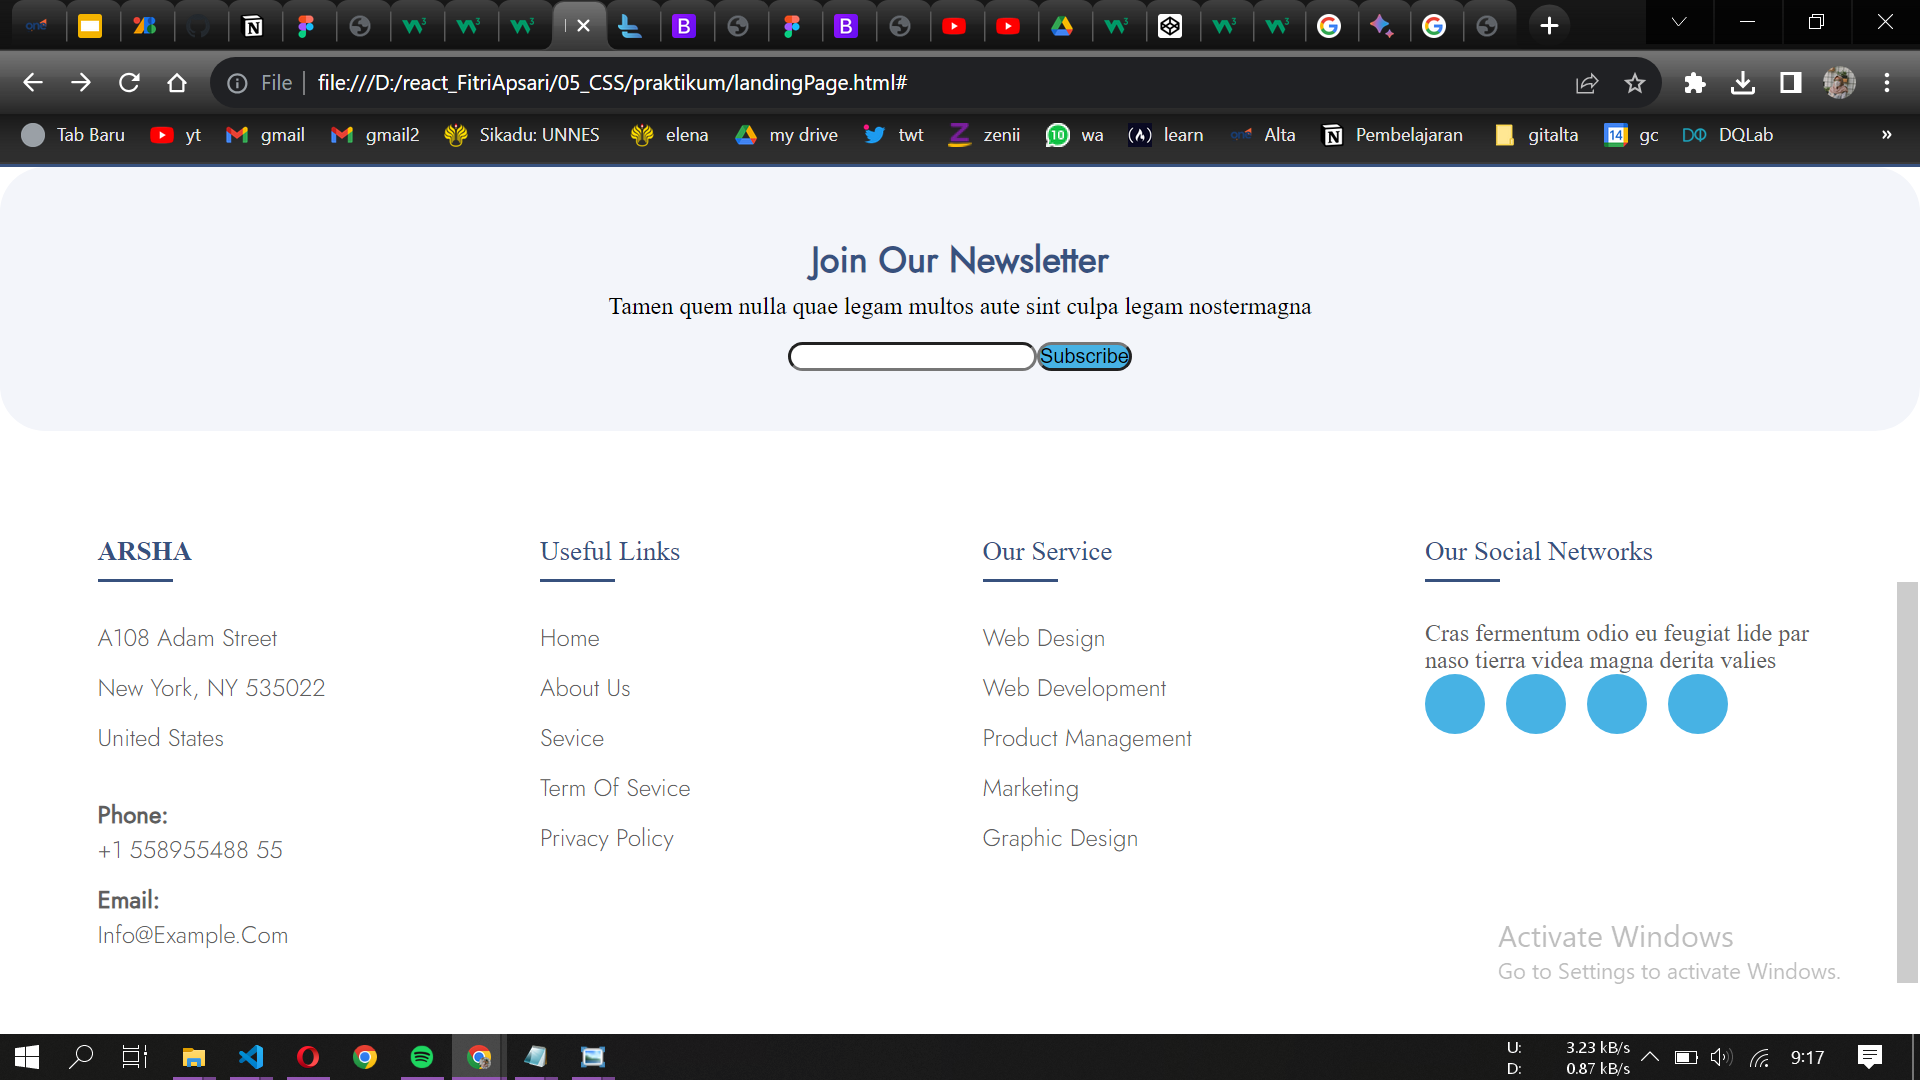
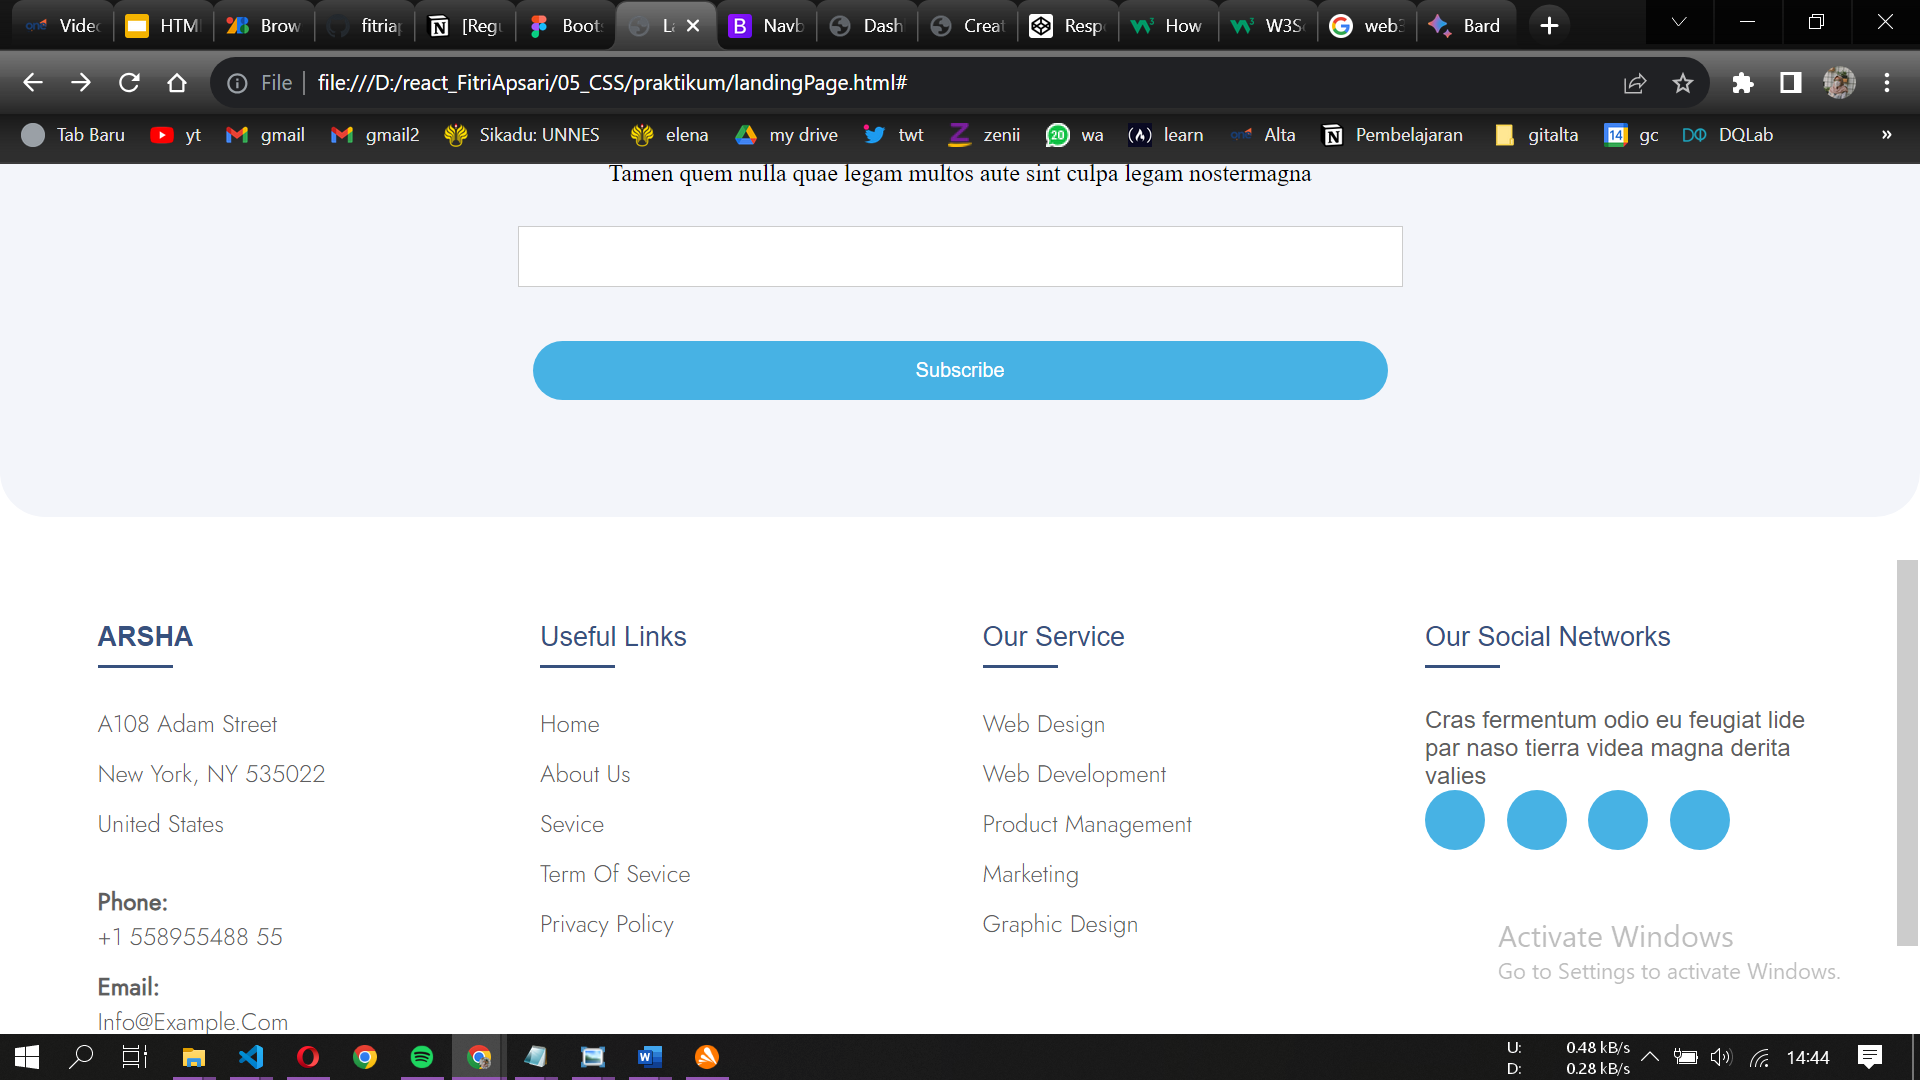
update:css+summary js

diff --git a/05_CSS/praktikum/style.css b/05_CSS/praktikum/style.css
@@ -1,5 +1,8 @@
 @import url("https://fonts.googleapis.com/css2?family=Jost:ital,wght@0,300;0,400;1,100&family=Open+Sans:wght@400;500&display=swap");
 
+/* .body { */
+/* font-family: "Jost" sans-serif; */
+/* } */
 .nav-menu {
   background-color: #ffff;
   width: 100%;
@@ -23,17 +26,26 @@
 }
 
 .rounded-button {
-  background-color: blue;
+  display: flex;
+  flex-direction: row;
+  justify-content: space-between;
+  gap: 2rem;
+  margin-top: 300px;
+  margin-left: 0px;
+  border: 0px;
+  padding-top: 50px;
+  background-color: #47b2e4;
   color: white;
   border-radius: 40px;
-
-  padding: 10px 20px;
+  padding: 10px 30px;
   border: none;
   cursor: pointer;
   text-decoration: none;
   transition: background-color 0.3s, color 0.3s;
 }
-
+/* .button.rounded-button { */
+/* margin-left: 50px; */
+/* } */
 .rounded-button:hover {
   background-color: darkblue;
 }
@@ -52,6 +64,7 @@
   margin-top: 100px;
   margin-right: 0px;
   margin-left: 60px;
+  margin-bottom: 100px;
 }
 
 h1 {
@@ -66,35 +79,65 @@ h1 {
   flex-direction: row;
   width: 100%;
   margin-top: 10px;
-  height: 500px;
+  height: 400px;
+}
+.container-sb {
+  padding: 20px;
+  justify-content: center;
+}
+
+input[type="text"],
+input[type="submit"] {
+  width: 50%;
+  padding: 12px;
+  margin: 8px 0;
+  display: inline-block;
+  border: 1px solid #ccc;
+  box-sizing: border-box;
+}
+
+input[type="submit"] {
+  background-color: #47b2e4;
+  color: white;
+  border: none;
+  border-radius: 30px 30px 30px 30px;
+}
+
+input[type="submit"]:hover {
+  opacity: 0.8;
 }
 #join {
   background-color: #f3f5fa;
+  display: flex;
   text-align: center;
   flex-direction: column;
   padding: 50px;
   margin: 0px;
   border-radius: 30px;
 }
-
-.get {
+.container.container-sb {
   display: flex;
-  justify-content: center;
-  align-items: center;
-  height: 20px;
-  padding-top: 24px;
+  flex-direction: row;
 }
-#lorem-ipsum {
-  border-radius: 30px 30px 30px 30px;
-}
-.biru {
-  background-color: #47b2e4;
-  border-radius: 30px;
-}
+/*  */
+/* .get { */
+/* display: flex; */
+/* justify-content: center; */
+/* align-items: center; */
+/* height: 20px; */
+/* padding-top: 24px; */
+/* } */
+/* #lorem-ipsum { */
+/* border-radius: 30px 30px 30px 30px; */
+/* } */
+/* .biru { */
+/* background-color: #47b2e4; */
+/* border-radius: 30px; */
+/* } */
 h2 {
   color: #37517e;
   text-align: center;
-  font-family: Jost;
+  font-family: "Jost";
   font-size: 24px;
   font-style: normal;
   font-weight: 600;
@@ -109,6 +152,7 @@ h2 {
 .row {
   display: flex;
   flex-wrap: wrap;
+  font-family: sans-serif;
 }
 ul {
   list-style: none;

diff --git a/05_CSS/praktikum/landingPage.html b/05_CSS/praktikum/landingPage.html
@@ -32,7 +32,7 @@
           </p>
           <br />
         </div>
-        <div class="sip">
+        <!-- <div class="sip"> -->
           <br />
           <a href="#"><button class="rounded-button">Get Started</button></a>
           <a href="#"><button class="rounded-button">Watch Video</button></a>
@@ -46,12 +46,15 @@
           >Tamen quem nulla quae legam multos aute sint culpa legam
           nostermagna</label
         ><br />
-        <div class="get">
-          <input type="text" id="lorem-ipsum" required />
-          <a href="createAccount.html"
-            ><button class="biru">Subscribe</button></a
-          >
-        </div>
+        <form action="/action_page.php">
+          <div class="container">
+            <input type="text" name="name" required />
+          </div>
+
+          <div class="container-sb">
+            <input type="submit" value="Subscribe" />
+          </div>
+        </form>
       </section>
     </main>
 

diff --git a/07_Javascript Refreshment/README.md b/07_Javascript Refreshment/README.md
@@ -1,1 +1,12 @@
-summary
+# Resume Javascript Refreshment
+
+- Javascript merupakan bahasa pemrograman yang digunakan untuk mengembangkan situs web agar lebih dinamis dan interaktif. Untuk melengkapi HTML sebagai pondasi dan CSS sebagai sebuah skin, Javascript meningkatkan fungsionalitas sebuah halaman web. Javascript dapat digunakan untuk membuat aplikasi, alat, dan bahkan game di web. Javascript digunakan tidak hanya untuk membuat web lebih dinamis dan interaktif, tetapi juga untuk menangani logika data. Pada dasarnya fitur Javascript digunakan tidak hanya di Front-End tetapi juga di Back-End. File Javascript umumnya di-link pada bagian bawah body HTML melalui tag <script>
+
+- Javascript memiliki beberapa tipe data yang dibagi menjadi 2 jenis, yaitu :
+- Tipe data primitive
+  Tipe data primitif hanya dapat menyimpan satu nilai dalam satu waktu dan tidak dapat diubah seperti tipe data non-primitif. Tipe data primitif dianggap sama jika nilainya sama. Contohnya : Number, String, Boolean, Undefined, Null, dan Symbol.
+- Tipe data non-primitive
+  Tipe data non-primitive dapat menyimpan dan mengubah beberapa nilai sekaligus. Tipe data non-primitive dianggap berbeda meskipun nilainya sama dan dalam urutan yang sama. Contohnya : Function, Array, dan Object.
+  Pendeklarasian variable yang ada pun beragam, kita dapat menggunakan '''var''', '''let''', atau '''const'''.
+
+- Javascript terdapat konsep Asynchronous yaitu hasil atau keluaran dari eksekusi yang tidak selalu berdasarkan urutan kode, tetapi pada waktu pemrosesan. Eksekusi asinkron tidak memblocking atau menunggu perintah selesai, melainkan mengeksekusi perintah berikutnya secara asinkron. Contohnya : Async Await, Callback, dan Promise. Selain itu, terdapat juga objek Javascript spesial yang dapat dipakai untuk mendapatkan struktur dokumen website, bahkan memanipulasinya, yakni Javascript DOM (Document Object Model). DOM ini adalah model objek XML dan HTML standar dengan properti platform-independen. Pada tingkat yang paling sederhana, sebuah situs web terdiri dari dokumen HTML dan CSS. Browser membuat representasi dari dokumen yang disebut DOM (Document Object Model). Dokumen-dokumen ini memungkinkan JavaScript untuk mengakses dan memanipulasi elemen dan gaya situs web.
